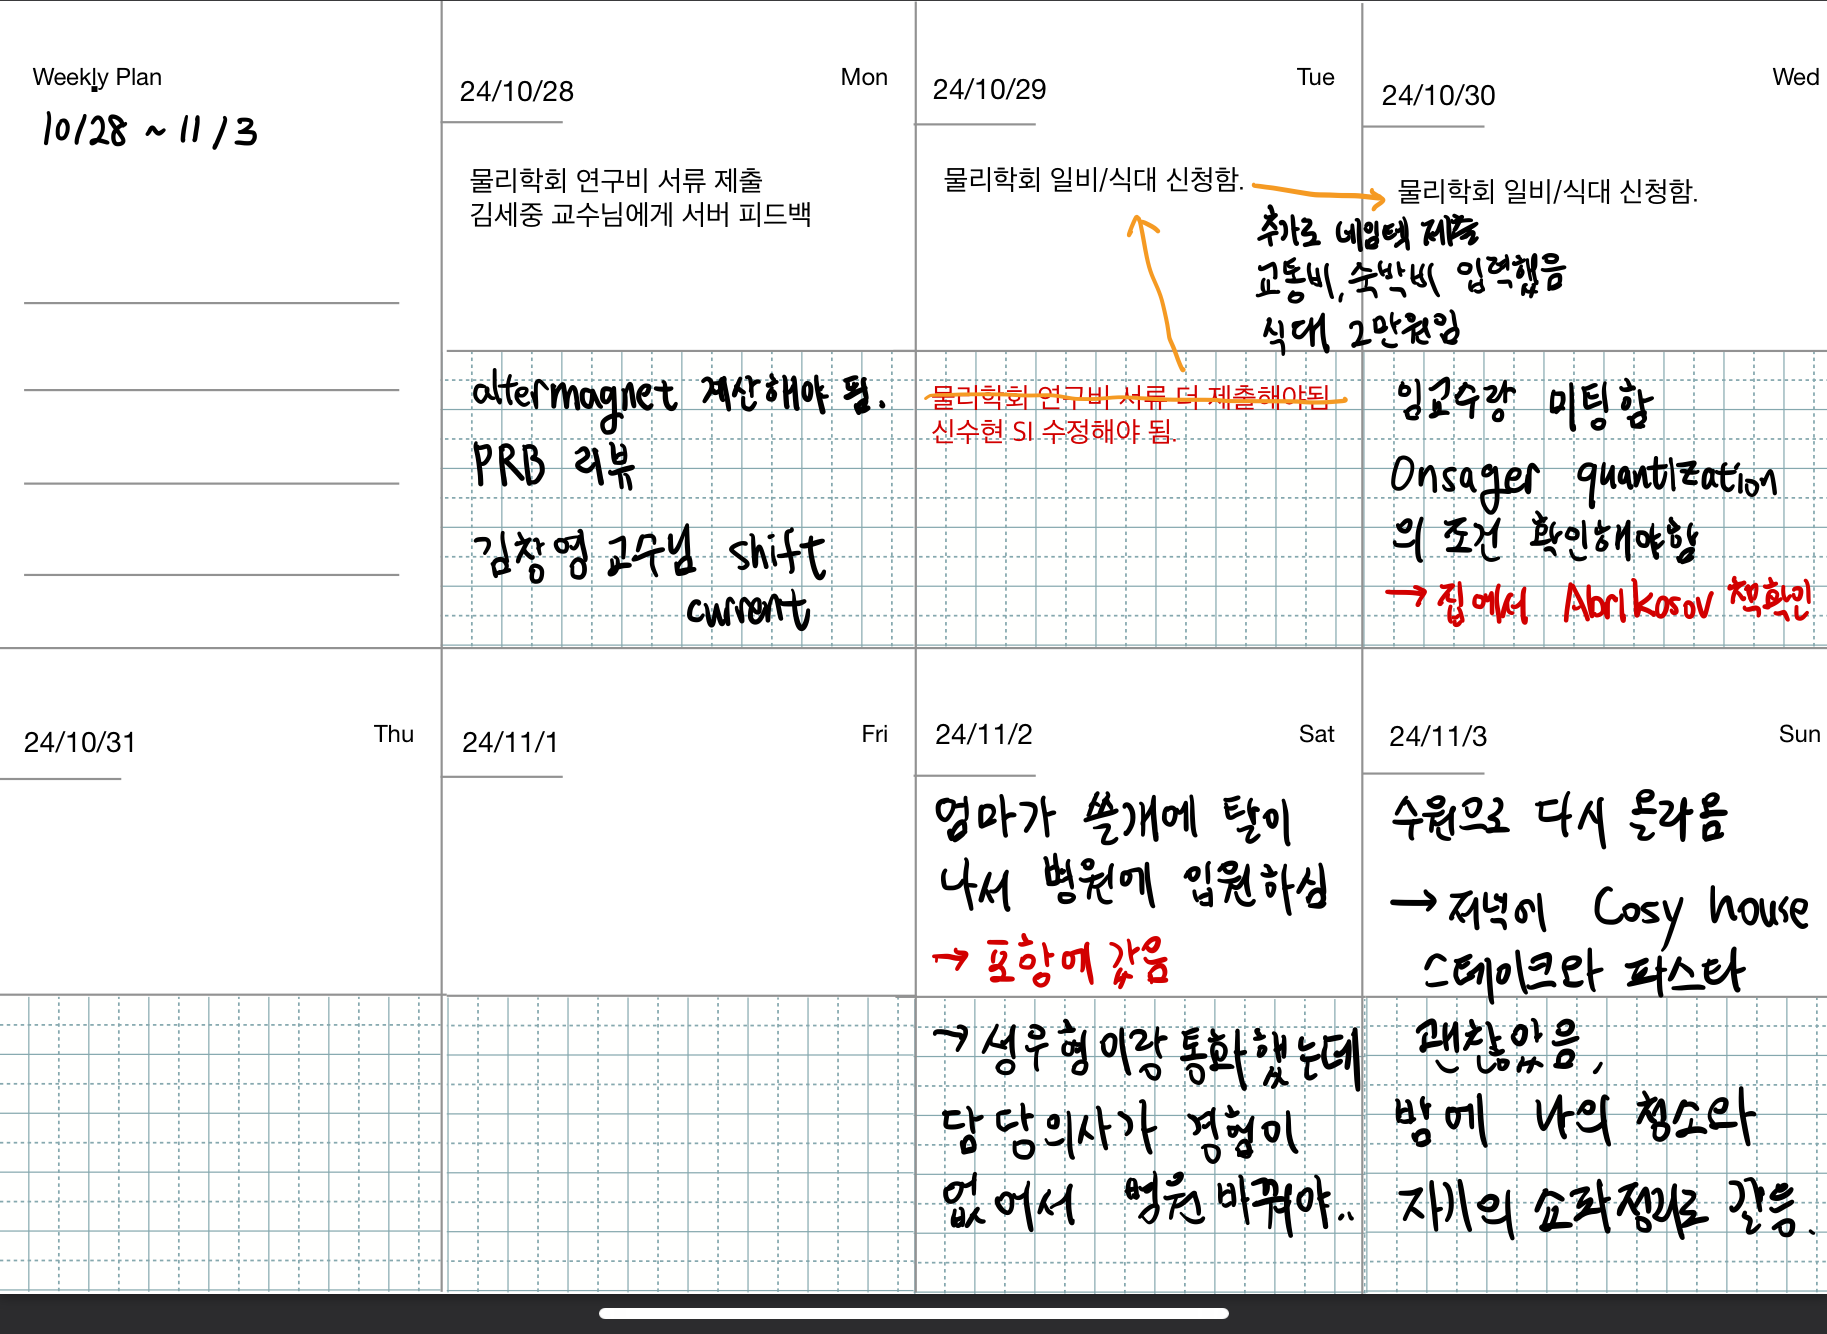
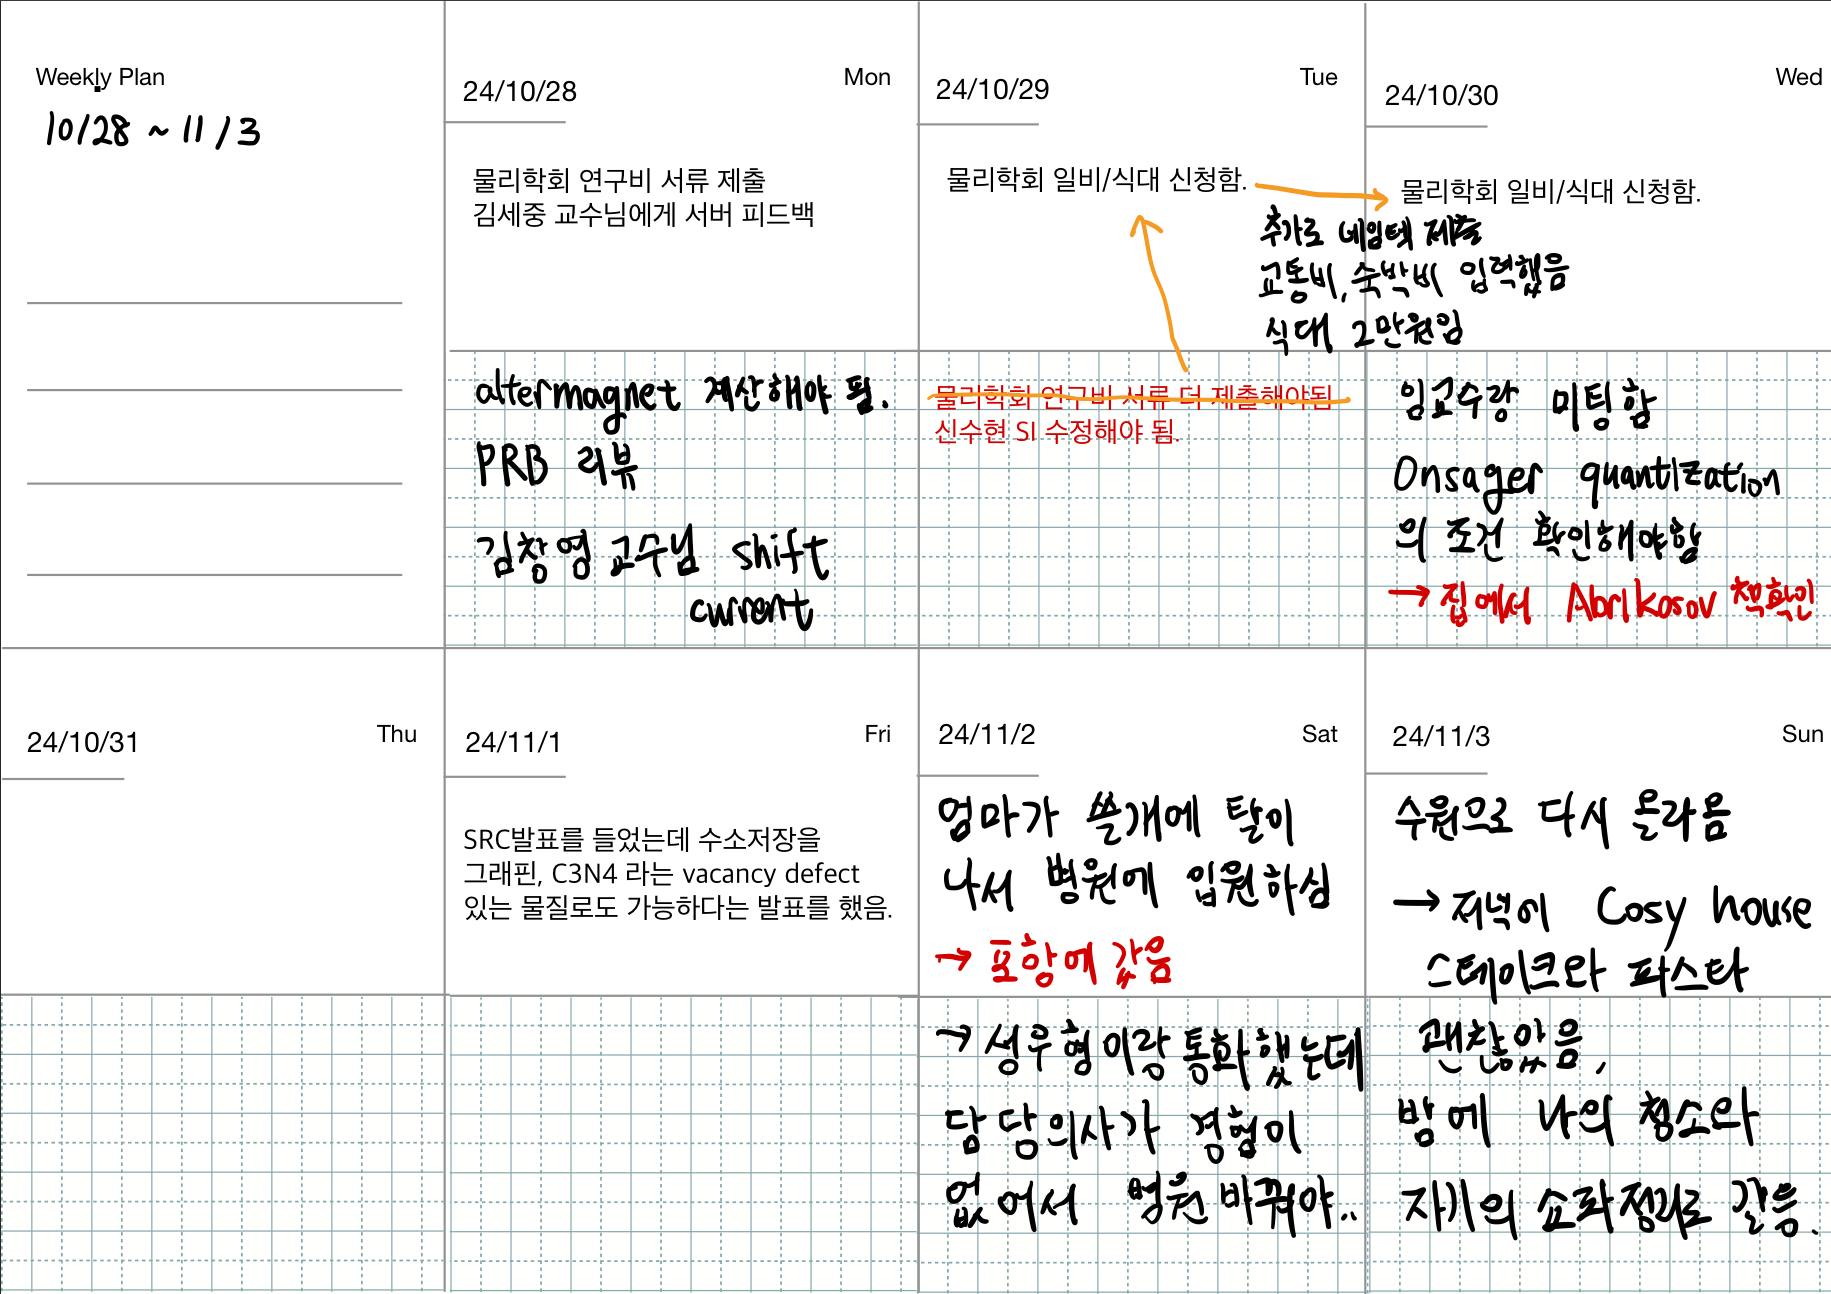
“update”

diff --git a/_posts/2024/2024-11-05-Nov1-Tue.md b/_posts/2024/2024-11-05-Nov1-Tue.md
@@ -1,0 +1,18 @@
+---
+type: "coin"
+heading : "Nov1 Tue"
+duration: "2024.Nov.05"
+
+
+---
+ 
+
+[start 5m Tue 12PM narrative (링크)](/todo/images/start-2024-11-05-12PM.png)    
+[big picture 1D Tue 12PM narrative (링크)](/todo/images/big-2024-11-05-12PM.png)  
+[trend 4h Tue 12PM narrative (링크)](/todo/images/trend-2024-11-05-12PM.png)  
+[time 1d Tue 12PM narrative (링크)](/todo/images/time-2024-11-05-12PM.png)  
+[OI 2h Tue 12PM narrative (링크)](/todo/images/OI-2024-11-05-12PM.png)    
+
+
+
+
